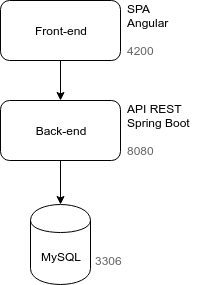
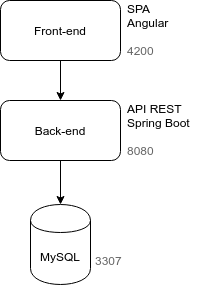
Atualiza texto e imagens para que o MySQL Monolítico fique na porta 3307 e o MySQL de pagamentos fique na porta 3308

diff --git a/16-apendice-docker.md b/16-apendice-docker.md
@@ -11,14 +11,14 @@ docker image pull mysql:5.7
 Suba um container do MySQL 5.7 com o seguinte comando:
 
 ```sh
-docker container run --rm -d -p 3307:3306 --name eats.mysql -e MYSQL_ROOT_PASSWORD=caelum123 -e MYSQL_DATABASE=eats_pagamento -e MYSQL_USER=pagamento -e MYSQL_PASSWORD=pagamento123 -v eats.mysql:/var/lib/mysql mysql:5.7
+docker container run --rm -d -p 3308:3306 --name eats.mysql -e MYSQL_ROOT_PASSWORD=caelum123 -e MYSQL_DATABASE=eats_pagamento -e MYSQL_USER=pagamento -e MYSQL_PASSWORD=pagamento123 -v eats.mysql:/var/lib/mysql mysql:5.7
 ```
 
 Usamos as configurações:
 
 - `--rm` para remover o container quando ao sair.
 - `-d`, ou `--detach`, para rodar o container no background, imprimindo o id do container e liberando o Terminal para outros comandos.
-- `-p`, ou `--publish`, que associa a porta do container ao host. No nosso caso, associamos a porta `3307` do host à porta padrão do MySQL (`3306`) do container.
+- `-p`, ou `--publish`, que associa a porta do container ao host. No nosso caso, associamos a porta `3308` do host à porta padrão do MySQL (`3306`) do container.
 - `--name`, define um apelido para o container.
 - `-e`, ou `--env`, define variáveis de ambiente para o container. No caso, definimos a senha do usuário `root` por meio da variável `MYSQL_ROOT_PASSWORD`. Também definimos um database a ser criado na inicialização do container e seu usuário e senha, pelas variáveis `MYSQL_DATABASE`, `MYSQL_USER` e `MYSQL_PASSWORD`, respectivamente.
 - `-v` para preservar os dados fora do container
@@ -37,7 +37,7 @@ Deve aparecer algo como:
 
 ```txt
 CONTAINER ID                                                       IMAGE               COMMAND                         CREATED             STATUS              PORTS                               NAMES
-183bc210a6071b46c4dd790858e07573b28cfa6394a7017cb9fa6d4c9af71563   mysql:5.7           "docker-entrypoint.sh mysqld"   16 minutes ago      Up 16 minutes       33060/tcp, 0.0.0.0:3307->3306/tcp   eats.mysql
+183bc210a6071b46c4dd790858e07573b28cfa6394a7017cb9fa6d4c9af71563   mysql:5.7           "docker-entrypoint.sh mysqld"   16 minutes ago      Up 16 minutes       33060/tcp, 0.0.0.0:3308->3306/tcp   eats.mysql
 ```
 
 Acesse os logs do container `eats.mysql` com o comando:
@@ -58,7 +58,7 @@ Já a opção `-t` (ou `--tty`) simula um Terminal dentro do container.
 
 Informe a senha `pagamento123`, registrada em passos anteriores.
 
-Devem ser impressas informações sobre o MySQL, cuja versão deve ser _5.7.26 MySQL Community Server (GPL)_.
+Devem ser impressas informações sobre o MySQL. Entre elas, uma versão semelhante a: _5.7.26 MySQL Community Server (GPL)_.
 
 Digite o seguinte comando:
 
@@ -110,7 +110,7 @@ Acesse a CLI do `eats.mongo` com o comando:
 docker container exec -it eats.mongo mongo
 ```
 
-Devem aparecer informações sobre o MongoDB, como a versão, que deve ser algo como _MongoDB server version: 3.6.12_.
+Devem aparecer informações sobre o MongoDB, como a versão, que deve ser algo como: _MongoDB server version: 3.6.12_.
 
 Digite o seguinte comando:
 
@@ -149,7 +149,7 @@ services:
   mysql.pagamento:
     image: mysql:5.7
     ports:
-      - "3307:3306"
+      - "3308:3306"
     environment:
       MYSQL_ROOT_PASSWORD: caelum123
       MYSQL_DATABASE: eats_pagamento

diff --git a/03-extraindo-servicos.md b/03-extraindo-servicos.md
@@ -627,9 +627,9 @@ No arquivo `src/main/resources/application.properties`, modifique a porta para `
 server.port = 8081
 
 #DATASOURCE CONFIGS
-spring.datasource.url=jdbc:mysql://localhost/eats?createDatabaseIfNotExist=true
-spring.datasource.username=<SEU USUARIO>
-spring.datasource.password=<SUA SENHA>
+spring.datasource.url=jdbc:mysql://localhost/eats:3307?createDatabaseIfNotExist=true
+spring.datasource.username=eats
+spring.datasource.password=eats123
 
 #JPA CONFIGS
 spring.jpa.hibernate.ddl-auto=validate
@@ -637,8 +637,6 @@ spring.jpa.show-sql=true
 
 spring.jackson.serialization.fail-on-empty-beans=false
 ```
-
-Observação: `<SEU USUARIO>` e `<SUA SENHA>` devem ser trocados pelos valores do MySQL do monólito.
 
 ### Extraindo código de pagamentos do monólito
 
@@ -1057,9 +1055,9 @@ Edite o arquivo `src/main/resources/application.properties`, modificando a porta
 server.port = 8082
 
 #DATASOURCE CONFIGS
-spring.datasource.url=jdbc:mysql://localhost/eats?createDatabaseIfNotExist=true
-spring.datasource.username=<SEU USUARIO>
-spring.datasource.password=<SUA SENHA>
+spring.datasource.url=jdbc:mysql://localhost/eats:3307?createDatabaseIfNotExist=true
+spring.datasource.username=eats
+spring.datasource.password=eats123
 
 #JPA CONFIGS
 spring.jpa.hibernate.ddl-auto=validate
@@ -1067,8 +1065,6 @@ spring.jpa.show-sql=true
 
 spring.jackson.serialization.fail-on-empty-beans=false
 ```
-
-Troque `<SEU USUARIO>` e `<SUA SENHA>` pelos valores do BD.
 
 ###  Extraindo código de distância do monólito
 

diff --git a/01-conhecendo-o-projeto.md b/01-conhecendo-o-projeto.md
@@ -174,10 +174,11 @@ São utilizados alguns componentes open-source:
   git clone https://gitlab.com/aovs/projetos-cursos/fj33-eats-monolito.git
   ```
 
-2. Subiremos o MySQL pelo Docker Compose. Para isso, na pasta do back-end do projeto, execute o seguinte comando:
+2. O MySQL será executado pelo Docker Compose. Para isso, baixe e execute o `docker-compose.yml` para o seu Desktop com os seguintes comandos:
 
   ```sh
-  cd ~/Desktop/fj33-eats-monolito
+  cd ~/Desktop/
+  curl https://gitlab.com/snippets/1954188/raw > docker-compose.yml
   docker-compose up -d
   ```
 
@@ -223,7 +224,7 @@ Atualmente, só são aceitos cartões de débito, crédito e vale refeição. En
 
 Entre especialistas de negócio, desenvolvedores e operações, a equipe passou a ter algumas dezenas de pessoas, o que complica incrivelmente a comunicação.
 
-Os desenvolvedores passaram a reclamar do código, dizendo que é difícil de entender e de encontrar onde devem ser implementadas manutenções, correções e novas funcionalidades.
+Os desenvolvedores passaram a reclamar do código, dizendo que é difícil de entender e encontrar onde devem ser implementadas manutenções, correções e novas funcionalidades.
 
 Há ainda problemas de performance, especialmente no cálculo dos restaurantes mais próximos ao CEP informado por um cliente. Essa degradação da performance acaba afetando todas as outras partes da aplicação.
 

diff --git a/06-api-gateway.md b/06-api-gateway.md
@@ -735,6 +735,11 @@ Para piorar o problema, raramente temos apenas uma UI. Além da Web, podemos ter
 
 Como resolver isso?
 
+<!--@note
+  Alexandre Aquiles: Coloquei as figuras de alguns posts da Netflix e o post do Sam Newman sobre BFF em uns slides:
+  https://slides.com/alexandreaquiles/apresentacao-api-gateway-composition-e-bff/fullscreen#/
+-->
+
 Poderíamos ter um time para a API. Só que esse time teria uma coordenação com cada _downstream service_ e também com cada UI.
 
 Uma solução melhor, usada pela SoundCloud e descrita por Phil Calçado no post [The Back-end for Front-end Pattern (BFF)](https://philcalcado.com/2015/09/18/the_back_end_for_front_end_pattern_bff.html) (CALÇADO, 2015) é ter um API Gateway com API Compositions específicas para cada front-end. Calçado relata que Nick Fisher, tech lead do time Web da SoundCloud, cunhou o termo _Back-end for Front-end_, ou simplesmente **BFF**.

diff --git a/02-decompondo-o-monolito.md b/02-decompondo-o-monolito.md
@@ -4,6 +4,11 @@
 
 Qual é a emoção que a palavra **monólito** traz pra você?
 
+<!--@note
+  Alexandre Aquiles: fiz a apresentação a seguir, cheia de memes, que tem esse início e dá pra usar misturando com demos do código.
+  https://slides.com/alexandreaquiles/apresentacao-monolitos-e-microservices/fullscreen#/
+-->
+
 Muitos desenvolvedores associam a palavra monólito a código mal feito, sem estrutura aparente, com muito código repetido e com dados compartilhados entre partes pouco relacionadas. É o que comumente é chamado de código **Spaghetti** ou, [Big Ball of Mud](http://www.laputan.org/mud/mud.html) (FOOTE; YODER, 1999).
 
 Porém, é possível criar monólitos bem estruturados. Uma maneira comum de organizar um monólito é usar camadas: cada camada provê um serviço para a camada de cima e é um cliente das camadas de baixo.
